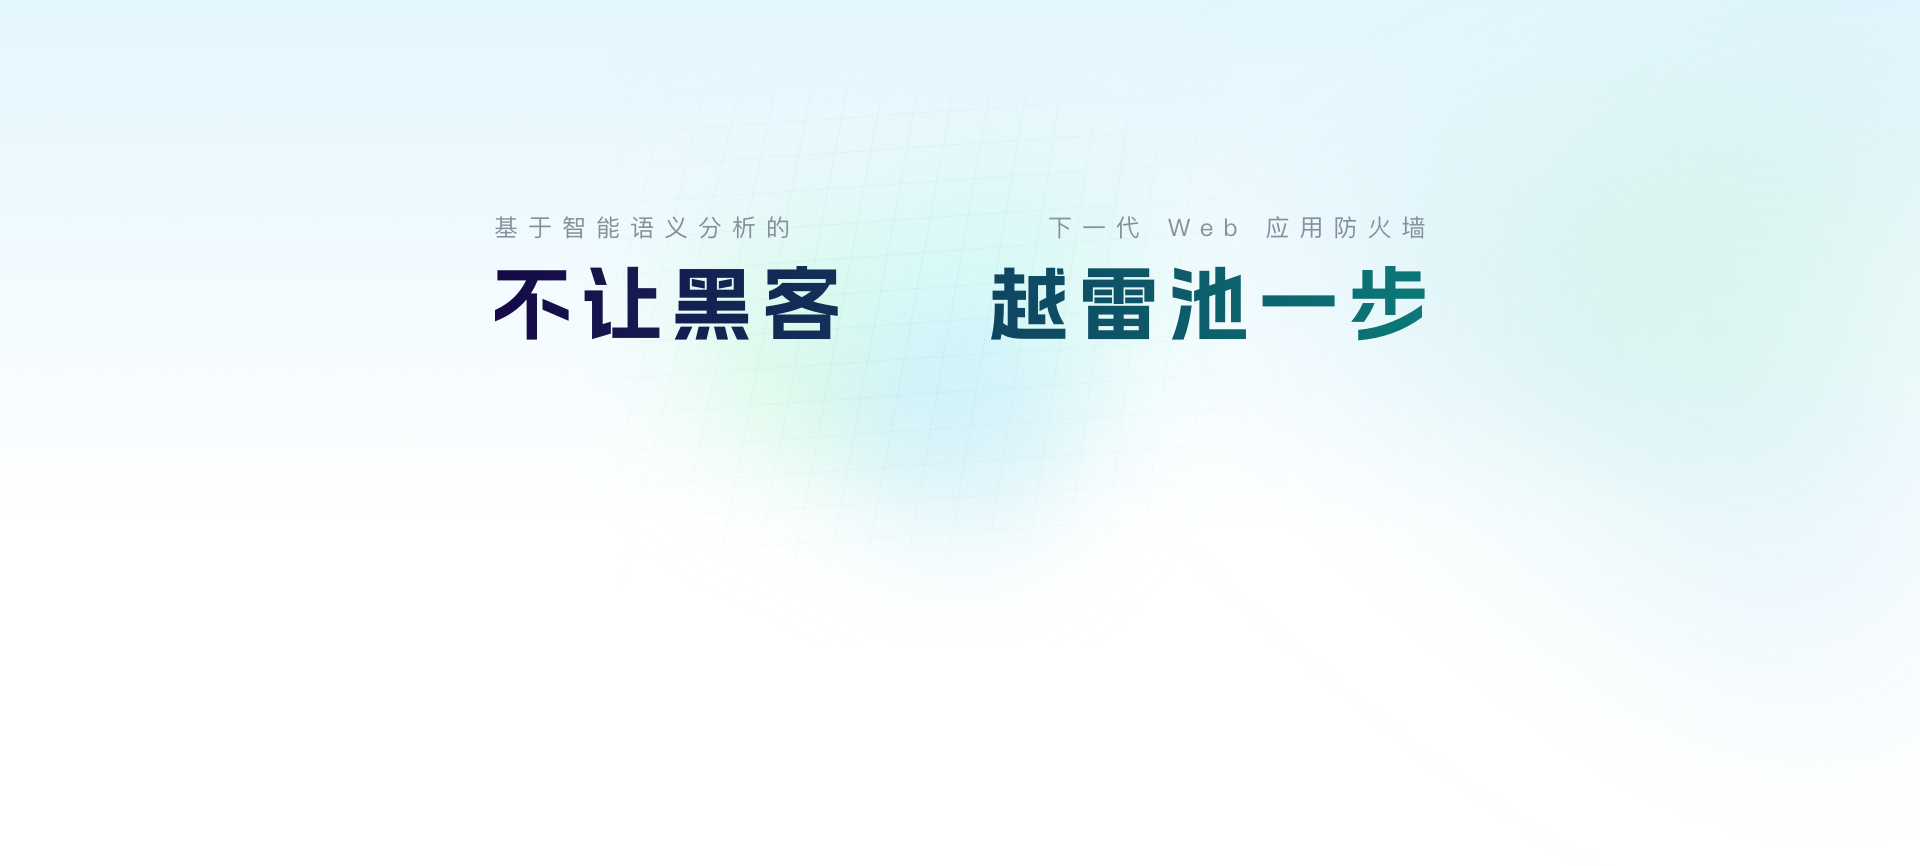
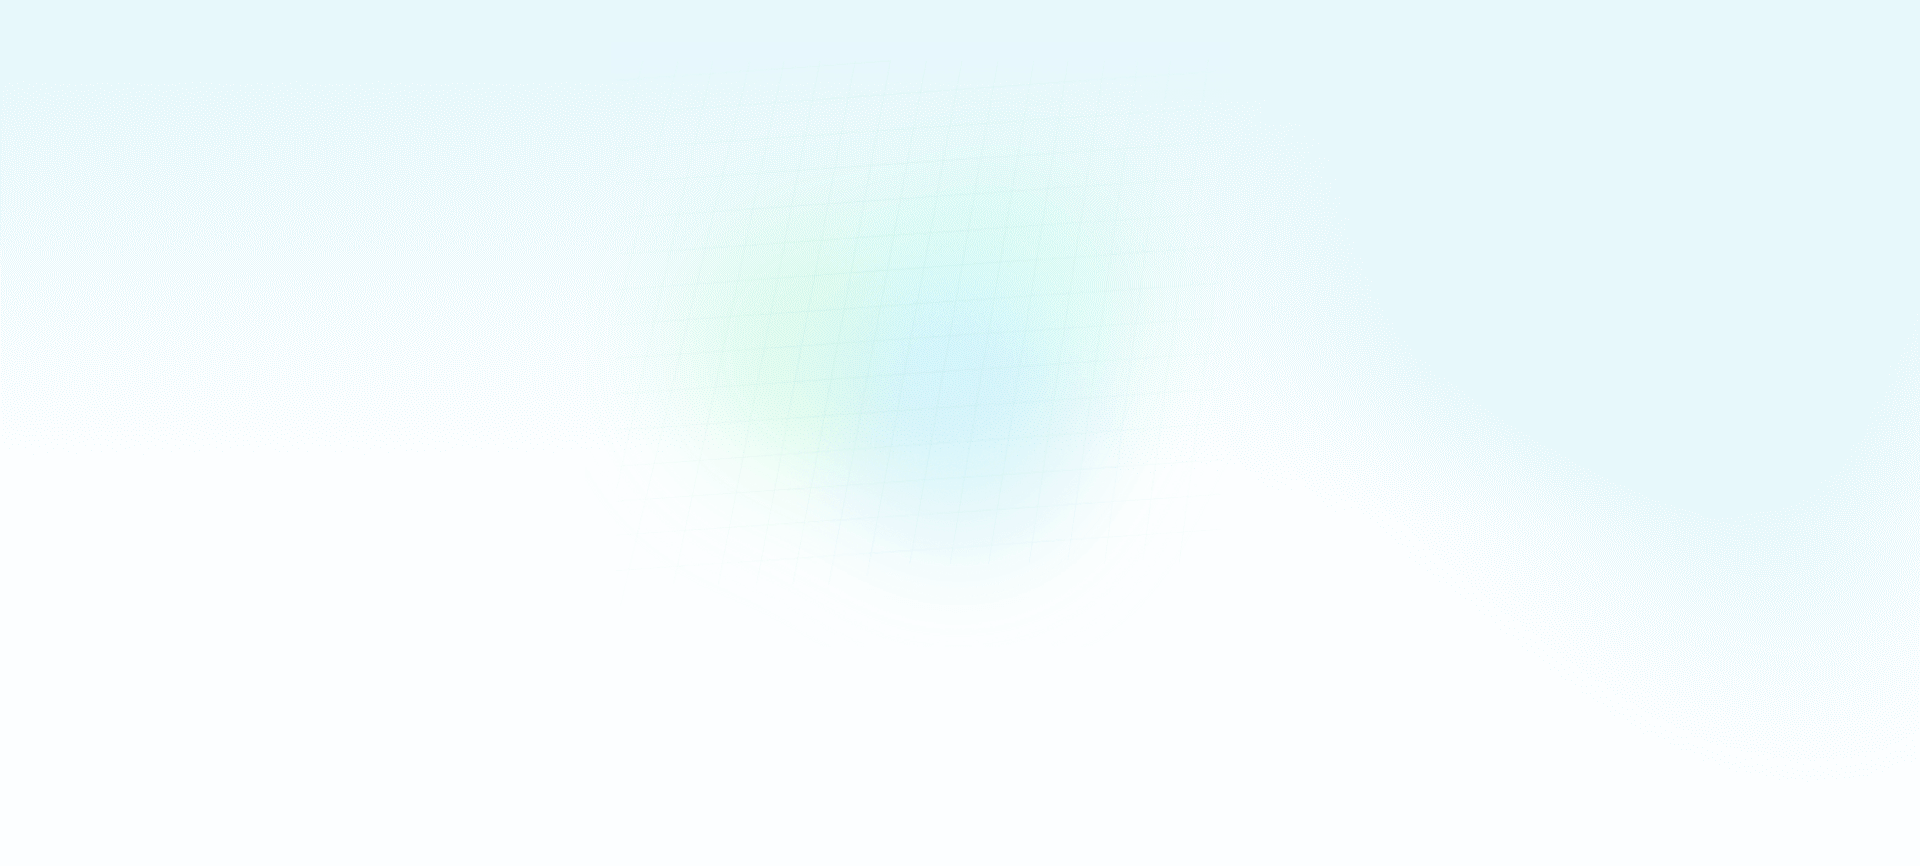
fix(website): replace the homepage background image

diff --git a/website/src/pages/index.tsx b/website/src/pages/index.tsx
@@ -70,13 +70,67 @@ export default function Home({ total } : { total: number }) {
           sx={{
             width: "100%",
             height: "866px",
+            position: 'relative',
             backgroundImage: "url(/images/home-banner.png)",
             backgroundSize: "cover",
-            position: 'relative',
             backgroundPosition: 'center center',
             backgroundRepeat: 'no-repeat'
           }}
         >
+          <Box pt={26.5}>
+            <Stack alignItems="center">
+              <Stack direction="row"
+                sx={{
+                  color: "#86909C",
+                  letterSpacing: 8,
+                }}
+              >
+                <Typography
+                  variant="h5"
+                  sx={{
+                    mr: 35,
+                    fontWeight: 400,
+                  }}
+                >
+                  基于智能语义分析的
+                </Typography>
+                <Typography
+                  variant="h5"
+                  sx={{
+                    fontWeight: 400,
+                  }}
+                >
+                  下一代 Web 应用防火墙
+                </Typography>
+              </Stack>
+              <Stack
+                direction="row"
+                mt={2}
+                sx={{
+                  fontFamily: "AlimamaShuHeiTi-Bold",
+                  letterSpacing: 10,
+                  background: 'linear-gradient(90deg, #160847 0%, #0A7977 100%)',
+                  '-webkit-background-clip': 'text',
+                  '-webkit-text-fill-color': 'transparent',
+                }}
+              >
+                <Typography
+                  variant="h1"
+                  sx={{
+                    mr: 15.5,
+                  }}
+                >
+                  不让黑客
+                </Typography>
+                <Typography
+                  variant="h1"
+                  sx={{}}
+                >
+                  越雷池一步
+                </Typography>
+              </Stack>
+            </Stack>
+          </Box>
           <Box sx={{ position: 'absolute', bottom: 351, left: '50%', transform: 'translateX(-50%)' }}>
             <Box sx={{ width: "369px" }}>
               <Image
